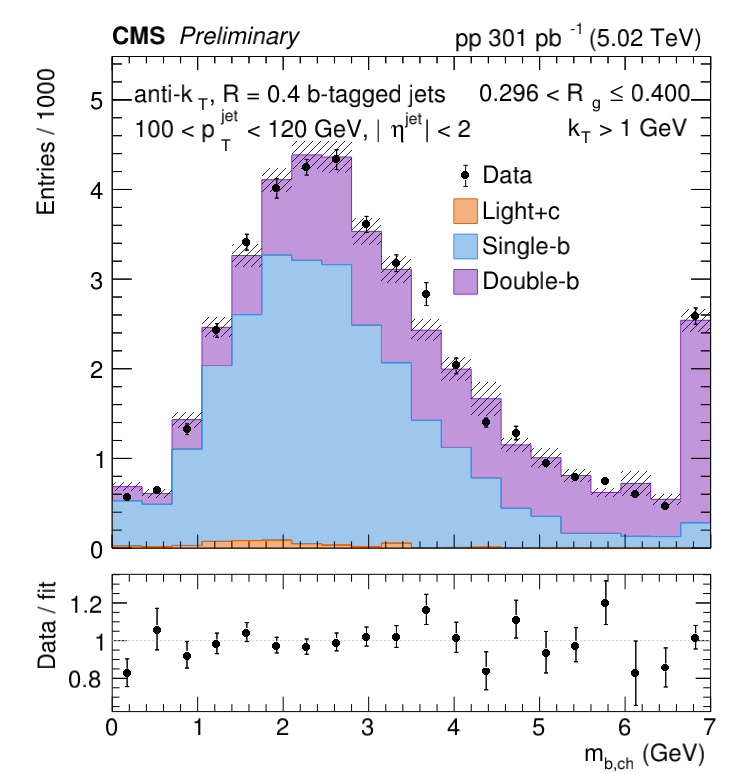
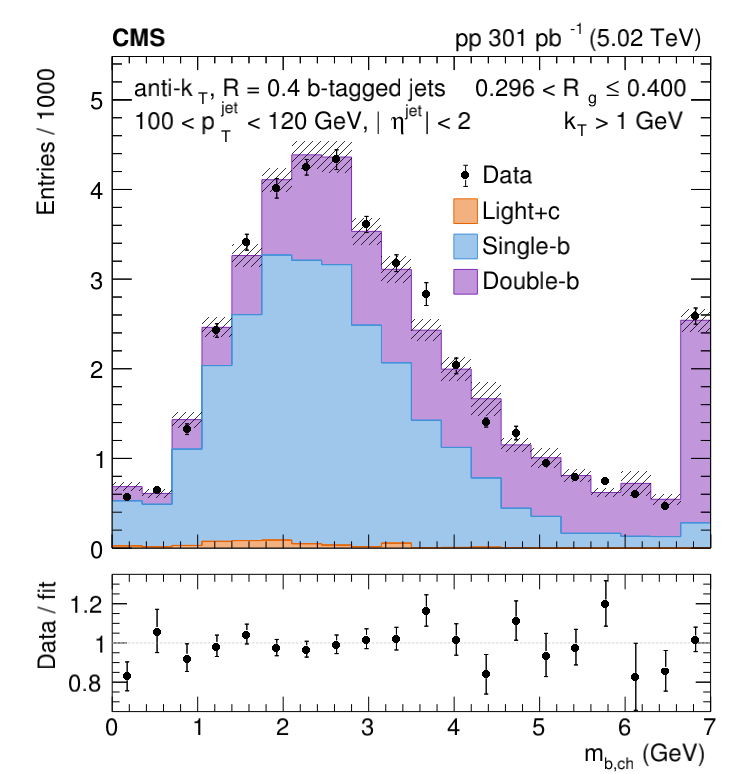
remove prelim from mb fit plots for paper

diff --git a/myMacros/C106X/template_fit/draw_fit_in1bin.C b/myMacros/C106X/template_fit/draw_fit_in1bin.C
@@ -231,16 +231,16 @@ void draw_fit_in1bin(TString observable = "rg", TString jer_opt="nom", TString j
     TLatex *jet_info = new TLatex;
     jet_info->SetNDC();
     jet_info->SetTextSize(text_size);
-    jet_info->SetTextAlign(12);
+    jet_info->SetTextAlign(11);
     jet_info->DrawLatex(0.18, 0.83, "anti-k_{T}, R = 0.4 b-tagged jets");
     jet_info->DrawLatex(0.18, 0.77, "100 < p_{T}^{jet} < 120 GeV, |#eta^{jet}| < 2");
 
     TLatex *jet_info2 = new TLatex;
     jet_info2->SetNDC();
     jet_info2->SetTextSize(text_size);
-    jet_info2->SetTextAlign(32);
-    jet_info2->DrawLatex(0.93, 0.83, range_text);
-    if (observable!="zpt") jet_info2->DrawLatex(0.93, 0.77, "k_{T} > 1 GeV");
+    jet_info2->SetTextAlign(31);
+    jet_info2->DrawLatex(0.925, 0.83, range_text);
+    if (observable!="zpt") jet_info2->DrawLatex(0.925, 0.77, "k_{T} > 1 GeV");
 
     // Plot ratio
     bottom_pad->cd();
@@ -254,6 +254,7 @@ void draw_fit_in1bin(TString observable = "rg", TString jer_opt="nom", TString j
     h_ratio->GetXaxis()->SetTitleOffset(1.);
     h_ratio->GetYaxis()->SetTitleOffset(h_data_mb->GetYaxis()->GetTitleOffset());
     h_ratio->GetYaxis()->SetNdivisions(505);
+    h_ratio->GetYaxis()->SetRangeUser(0.65,1.35);
 
     h_ratio->Draw("pe1");
     line->Draw();
